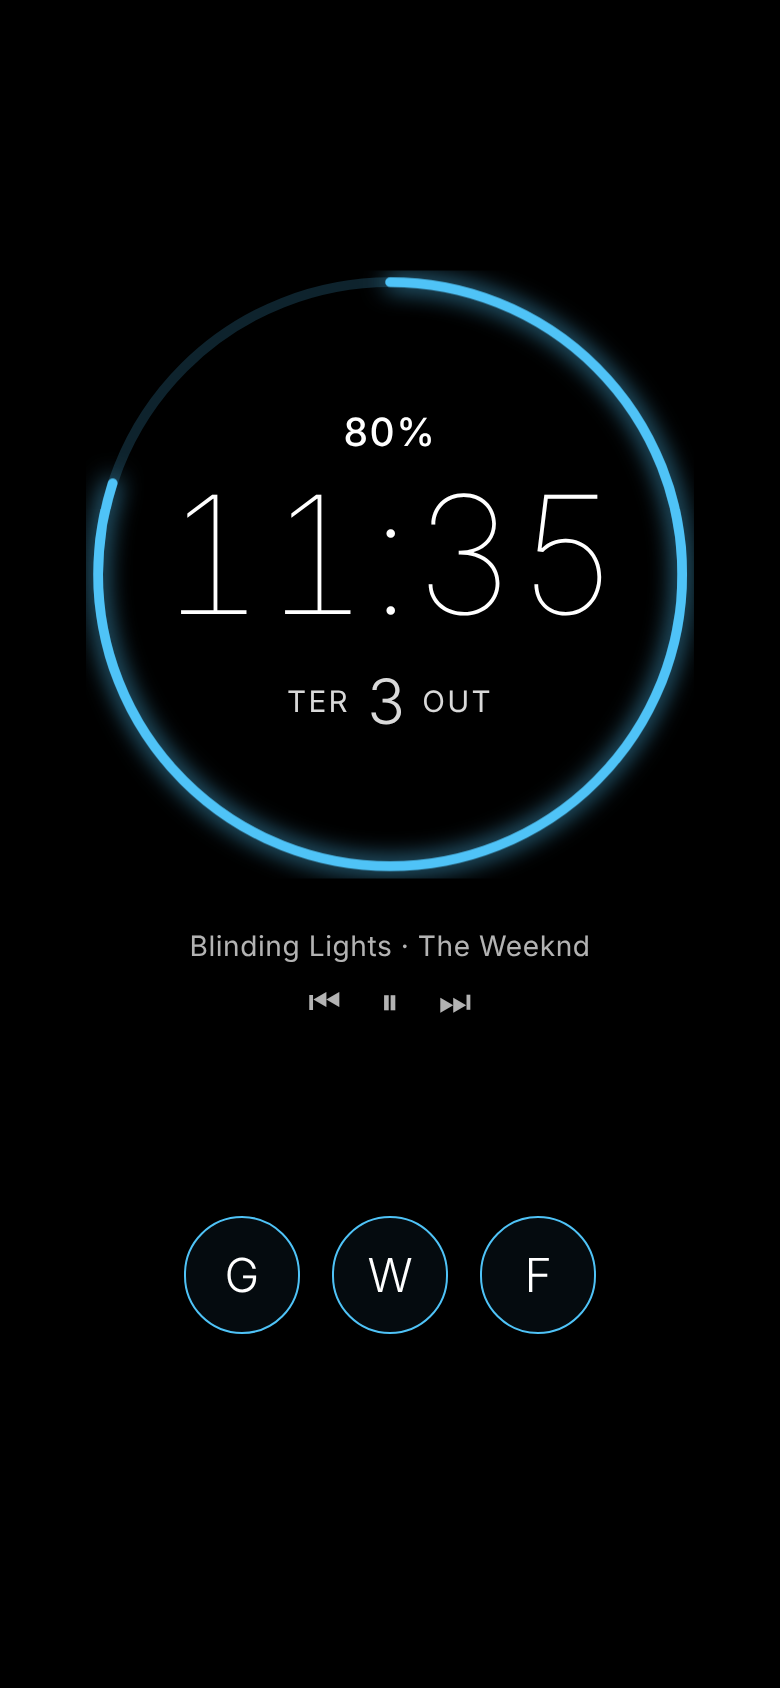
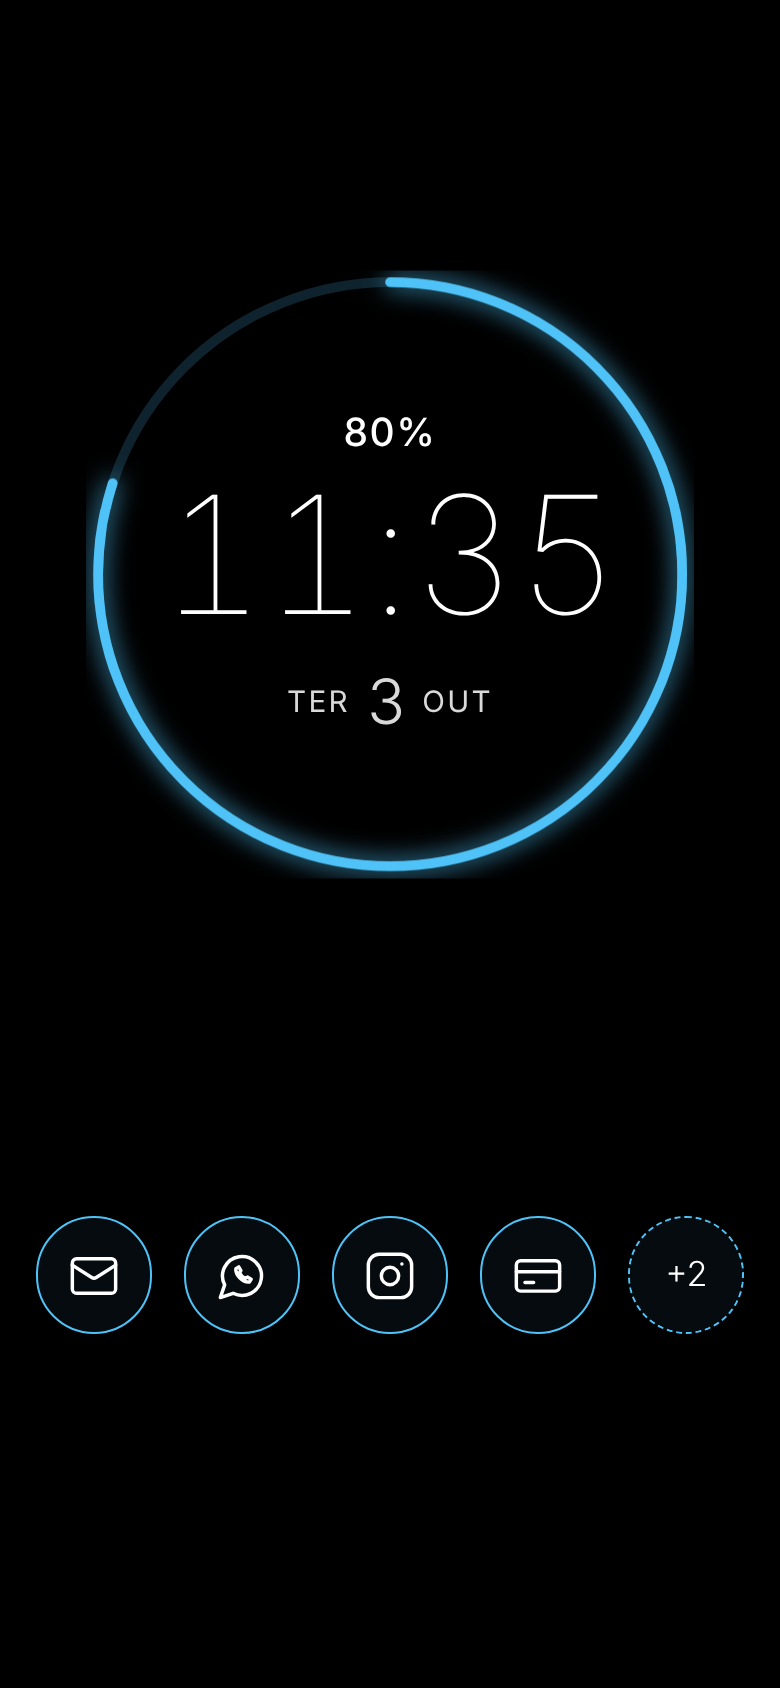
Moto Display: ícones de linha por app nas notificações
Ícones SVG embutidos (WhatsApp, Gmail, Instagram, Telegram, bancos, lojas, mapas
e outros) escolhidos pelo pacote do app; os demais usam um sino.

Claude-Session: https://claude.ai/code/session_017rdnfXSc1vabCLEXtf2YHv

diff --git a/app/src/main/java/dev/jesiel/launcher/data/HtmlWidgets.kt b/app/src/main/java/dev/jesiel/launcher/data/HtmlWidgets.kt
@@ -759,6 +759,7 @@ function onLauncherData(d){
 .icon{width:min(15vw,9vh);aspect-ratio:1;border-radius:50%;border:1.5px solid var(--ring);
   display:flex;align-items:center;justify-content:center;font-size:min(6vw,4vh);font-weight:300;color:#fff;
   background:rgba(79,195,247,.06);transition:transform .15s,background .15s}
+.icon svg{width:46%;height:46%;fill:none;stroke:#fff;stroke-width:1.6;stroke-linecap:round;stroke-linejoin:round}
 .icon.on{background:rgba(79,195,247,.28);transform:scale(1.08)}
 .icon.more{font-size:min(4.4vw,2.8vh);border-style:dashed}
 </style>
@@ -791,6 +792,50 @@ function onLauncherData(d){
 var notes = [], peekIndex = -1, peekTimer = null;
 function el(id){ return document.getElementById(id); }
 function short(s){ return String(s || '').replace(/[-\s].*/, '').slice(0, 3).toUpperCase(); }
+
+// Ícones de linha (24×24) por app; quem não está na lista ganha um sino.
+var ICONS = {
+  whatsapp: '<path d="M7.9 20A9 9 0 1 0 4 16.1L2 22Z"/><path d="M9.2 8.6c-.4 2.9 3.3 6.6 6.2 6.2l.8-1.3-1.7-1-.9.6a4.5 4.5 0 0 1-2.7-2.7l.6-.9-1-1.7z"/>',
+  messenger: '<path d="M7.9 20A9 9 0 1 0 4 16.1L2 22Z"/><path d="m7.5 13.5 3-3 2.5 2 3.5-3.5"/>',
+  sms: '<path d="M21 15a2 2 0 0 1-2 2H7l-4 4V5a2 2 0 0 1 2-2h14a2 2 0 0 1 2 2z"/><path d="M8 9h8M8 13h5"/>',
+  mail: '<rect x="2" y="4" width="20" height="16" rx="2"/><path d="m22 7-8.97 5.7a1.94 1.94 0 0 1-2.06 0L2 7"/>',
+  send: '<path d="m22 2-7 20-4-9-9-4Z"/><path d="M22 2 11 13"/>',
+  instagram: '<rect x="2" y="2" width="20" height="20" rx="5"/><circle cx="12" cy="12" r="4"/><path d="M17.5 6.5h.01"/>',
+  facebook: '<path d="M18 2h-3a5 5 0 0 0-5 5v3H7v4h3v8h4v-8h3l1-4h-4V7a1 1 0 0 1 1-1h3z"/>',
+  x: '<path d="M4 4l11.7 16H20L8.3 4z"/><path d="M4 20l6.8-6.8M13.2 10.8 20 4"/>',
+  linkedin: '<path d="M16 8a6 6 0 0 1 6 6v7h-4v-7a2 2 0 0 0-4 0v7h-4v-7a6 6 0 0 1 6-6z"/><rect x="2" y="9" width="4" height="12"/><circle cx="4" cy="4" r="2"/>',
+  youtube: '<path d="M2.5 17a24 24 0 0 1 0-10 2 2 0 0 1 1.4-1.4 49.6 49.6 0 0 1 16.2 0A2 2 0 0 1 21.5 7a24 24 0 0 1 0 10 2 2 0 0 1-1.4 1.4 49.6 49.6 0 0 1-16.2 0A2 2 0 0 1 2.5 17"/><path d="m10 15 5-3-5-3z"/>',
+  spotify: '<circle cx="12" cy="12" r="10"/><path d="M7 9.5c3.5-1 7-.7 10 1M7.6 12.6c2.8-.7 5.6-.4 8 .9M8.3 15.5c2.1-.5 4.2-.3 6 .7"/>',
+  music: '<path d="M9 18V5l12-2v13"/><circle cx="6" cy="18" r="3"/><circle cx="18" cy="16" r="3"/>',
+  phone: '<path d="M22 16.9v3a2 2 0 0 1-2.2 2 19.8 19.8 0 0 1-8.6-3.1 19.5 19.5 0 0 1-6-6A19.8 19.8 0 0 1 2.1 4.2 2 2 0 0 1 4.1 2h3a2 2 0 0 1 2 1.7c.1.9.4 1.9.7 2.8a2 2 0 0 1-.5 2.1L8.1 9.9a16 16 0 0 0 6 6l1.3-1.3a2 2 0 0 1 2.1-.4c.9.3 1.9.6 2.8.7a2 2 0 0 1 1.7 2z"/>',
+  calendar: '<rect x="3" y="4" width="18" height="18" rx="2"/><path d="M16 2v4M8 2v4M3 10h18"/>',
+  clock: '<circle cx="12" cy="13" r="8"/><path d="M12 9v4l2 2M5 3 2 6M22 6l-3-3"/>',
+  card: '<rect x="2" y="5" width="20" height="14" rx="2"/><path d="M2 10h20M6 15h4"/>',
+  bag: '<path d="M6 2 3 6v14a2 2 0 0 0 2 2h14a2 2 0 0 0 2-2V6l-3-4z"/><path d="M3 6h18M16 10a4 4 0 0 1-8 0"/>',
+  game: '<rect x="2" y="6" width="20" height="12" rx="2"/><path d="M6 12h4M8 10v4M15 13h.01M18 11h.01"/>',
+  pin: '<path d="M20 10c0 6-8 12-8 12s-8-6-8-12a8 8 0 0 1 16 0Z"/><circle cx="12" cy="10" r="3"/>',
+  image: '<rect x="3" y="3" width="18" height="18" rx="2"/><circle cx="9" cy="9" r="2"/><path d="m21 15-3.1-3.1a2 2 0 0 0-2.8 0L6 21"/>',
+  download: '<path d="M21 15v4a2 2 0 0 1-2 2H5a2 2 0 0 1-2-2v-4"/><path d="m7 10 5 5 5-5M12 15V3"/>',
+  gear: '<circle cx="12" cy="12" r="3"/><path d="M12 2v3M12 19v3M2 12h3M19 12h3M4.9 4.9 7 7M17 17l2.1 2.1M4.9 19.1 7 17M17 7l2.1-2.1"/>',
+  bell: '<path d="M6 8a6 6 0 0 1 12 0c0 7 3 9 3 9H3s3-2 3-9"/><path d="M10.3 21a1.94 1.94 0 0 0 3.4 0"/>'
+};
+// Ordem importa: o Messenger (facebook.orca) vem antes do Facebook.
+var RULES = [
+  [/whatsapp/, 'whatsapp'], [/orca|messenger/, 'messenger'], [/telegram|thunderdog|nekogram/, 'send'],
+  [/\.gm\b|gmail|mail|outlook/, 'mail'], [/messaging|\bmms|sms|mensag/, 'sms'],
+  [/instagram/, 'instagram'], [/facebook/, 'facebook'], [/twitter|com\.x\./, 'x'], [/linkedin/, 'linkedin'],
+  [/discord/, 'game'], [/youtube/, 'youtube'], [/spotify/, 'spotify'], [/musically|tiktok|deezer|music|soundcloud/, 'music'],
+  [/dialer|incallui|telecom|phone|contacts/, 'phone'], [/calendar|agenda/, 'calendar'], [/deskclock|clock|alarm/, 'clock'],
+  [/nubank|itau|bradesco|bancointer|\binter\b|caixa|bb\.android|picpay|mercadopago|santander|c6bank|banco/, 'card'],
+  [/shopee|amazon|mercadolibre|mercadolivre|aliexpress|magalu|shein/, 'bag'],
+  [/maps|waze|uber|taxis99|\b99\b|ifood/, 'pin'], [/photos|gallery|galeria|camera/, 'image'],
+  [/vending|play store/, 'download'], [/systemui|settings|securitycenter|^android\b/, 'gear']
+];
+function iconFor(n){
+  var key = ((n.pacote || '') + ' ' + (n.app || '')).toLowerCase(), name = 'bell';
+  for (var r = 0; r < RULES.length; r++) if (RULES[r][0].test(key)) { name = RULES[r][1]; break; }
+  return '<svg viewBox="0 0 24 24">' + ICONS[name] + '</svg>';
+}
 
 function peek(i){
   clearTimeout(peekTimer);
@@ -847,7 +892,8 @@ function onLauncherData(d){
   byApp.slice(0, 4).forEach(function(i){
     var n = notes[i], dot = document.createElement('div');
     dot.className = 'icon'; dot.dataset.i = i;
-    dot.textContent = (n.app || '?').trim().charAt(0).toUpperCase();
+    dot.innerHTML = iconFor(n);
+    dot.setAttribute('aria-label', n.app || '');
     dot.onclick = function(){ peek(i); };
     box.appendChild(dot);
   });

diff --git a/docs/moto-display-lock.html b/docs/moto-display-lock.html
@@ -38,6 +38,7 @@
 .icon{width:min(15vw,9vh);aspect-ratio:1;border-radius:50%;border:1.5px solid var(--ring);
   display:flex;align-items:center;justify-content:center;font-size:min(6vw,4vh);font-weight:300;color:#fff;
   background:rgba(79,195,247,.06);transition:transform .15s,background .15s}
+.icon svg{width:46%;height:46%;fill:none;stroke:#fff;stroke-width:1.6;stroke-linecap:round;stroke-linejoin:round}
 .icon.on{background:rgba(79,195,247,.28);transform:scale(1.08)}
 .icon.more{font-size:min(4.4vw,2.8vh);border-style:dashed}
 </style>
@@ -70,6 +71,50 @@
 var notes = [], peekIndex = -1, peekTimer = null;
 function el(id){ return document.getElementById(id); }
 function short(s){ return String(s || '').replace(/[-\s].*/, '').slice(0, 3).toUpperCase(); }
+
+// Ícones de linha (24×24) por app; quem não está na lista ganha um sino.
+var ICONS = {
+  whatsapp: '<path d="M7.9 20A9 9 0 1 0 4 16.1L2 22Z"/><path d="M9.2 8.6c-.4 2.9 3.3 6.6 6.2 6.2l.8-1.3-1.7-1-.9.6a4.5 4.5 0 0 1-2.7-2.7l.6-.9-1-1.7z"/>',
+  messenger: '<path d="M7.9 20A9 9 0 1 0 4 16.1L2 22Z"/><path d="m7.5 13.5 3-3 2.5 2 3.5-3.5"/>',
+  sms: '<path d="M21 15a2 2 0 0 1-2 2H7l-4 4V5a2 2 0 0 1 2-2h14a2 2 0 0 1 2 2z"/><path d="M8 9h8M8 13h5"/>',
+  mail: '<rect x="2" y="4" width="20" height="16" rx="2"/><path d="m22 7-8.97 5.7a1.94 1.94 0 0 1-2.06 0L2 7"/>',
+  send: '<path d="m22 2-7 20-4-9-9-4Z"/><path d="M22 2 11 13"/>',
+  instagram: '<rect x="2" y="2" width="20" height="20" rx="5"/><circle cx="12" cy="12" r="4"/><path d="M17.5 6.5h.01"/>',
+  facebook: '<path d="M18 2h-3a5 5 0 0 0-5 5v3H7v4h3v8h4v-8h3l1-4h-4V7a1 1 0 0 1 1-1h3z"/>',
+  x: '<path d="M4 4l11.7 16H20L8.3 4z"/><path d="M4 20l6.8-6.8M13.2 10.8 20 4"/>',
+  linkedin: '<path d="M16 8a6 6 0 0 1 6 6v7h-4v-7a2 2 0 0 0-4 0v7h-4v-7a6 6 0 0 1 6-6z"/><rect x="2" y="9" width="4" height="12"/><circle cx="4" cy="4" r="2"/>',
+  youtube: '<path d="M2.5 17a24 24 0 0 1 0-10 2 2 0 0 1 1.4-1.4 49.6 49.6 0 0 1 16.2 0A2 2 0 0 1 21.5 7a24 24 0 0 1 0 10 2 2 0 0 1-1.4 1.4 49.6 49.6 0 0 1-16.2 0A2 2 0 0 1 2.5 17"/><path d="m10 15 5-3-5-3z"/>',
+  spotify: '<circle cx="12" cy="12" r="10"/><path d="M7 9.5c3.5-1 7-.7 10 1M7.6 12.6c2.8-.7 5.6-.4 8 .9M8.3 15.5c2.1-.5 4.2-.3 6 .7"/>',
+  music: '<path d="M9 18V5l12-2v13"/><circle cx="6" cy="18" r="3"/><circle cx="18" cy="16" r="3"/>',
+  phone: '<path d="M22 16.9v3a2 2 0 0 1-2.2 2 19.8 19.8 0 0 1-8.6-3.1 19.5 19.5 0 0 1-6-6A19.8 19.8 0 0 1 2.1 4.2 2 2 0 0 1 4.1 2h3a2 2 0 0 1 2 1.7c.1.9.4 1.9.7 2.8a2 2 0 0 1-.5 2.1L8.1 9.9a16 16 0 0 0 6 6l1.3-1.3a2 2 0 0 1 2.1-.4c.9.3 1.9.6 2.8.7a2 2 0 0 1 1.7 2z"/>',
+  calendar: '<rect x="3" y="4" width="18" height="18" rx="2"/><path d="M16 2v4M8 2v4M3 10h18"/>',
+  clock: '<circle cx="12" cy="13" r="8"/><path d="M12 9v4l2 2M5 3 2 6M22 6l-3-3"/>',
+  card: '<rect x="2" y="5" width="20" height="14" rx="2"/><path d="M2 10h20M6 15h4"/>',
+  bag: '<path d="M6 2 3 6v14a2 2 0 0 0 2 2h14a2 2 0 0 0 2-2V6l-3-4z"/><path d="M3 6h18M16 10a4 4 0 0 1-8 0"/>',
+  game: '<rect x="2" y="6" width="20" height="12" rx="2"/><path d="M6 12h4M8 10v4M15 13h.01M18 11h.01"/>',
+  pin: '<path d="M20 10c0 6-8 12-8 12s-8-6-8-12a8 8 0 0 1 16 0Z"/><circle cx="12" cy="10" r="3"/>',
+  image: '<rect x="3" y="3" width="18" height="18" rx="2"/><circle cx="9" cy="9" r="2"/><path d="m21 15-3.1-3.1a2 2 0 0 0-2.8 0L6 21"/>',
+  download: '<path d="M21 15v4a2 2 0 0 1-2 2H5a2 2 0 0 1-2-2v-4"/><path d="m7 10 5 5 5-5M12 15V3"/>',
+  gear: '<circle cx="12" cy="12" r="3"/><path d="M12 2v3M12 19v3M2 12h3M19 12h3M4.9 4.9 7 7M17 17l2.1 2.1M4.9 19.1 7 17M17 7l2.1-2.1"/>',
+  bell: '<path d="M6 8a6 6 0 0 1 12 0c0 7 3 9 3 9H3s3-2 3-9"/><path d="M10.3 21a1.94 1.94 0 0 0 3.4 0"/>'
+};
+// Ordem importa: o Messenger (facebook.orca) vem antes do Facebook.
+var RULES = [
+  [/whatsapp/, 'whatsapp'], [/orca|messenger/, 'messenger'], [/telegram|thunderdog|nekogram/, 'send'],
+  [/\.gm\b|gmail|mail|outlook/, 'mail'], [/messaging|\bmms|sms|mensag/, 'sms'],
+  [/instagram/, 'instagram'], [/facebook/, 'facebook'], [/twitter|com\.x\./, 'x'], [/linkedin/, 'linkedin'],
+  [/discord/, 'game'], [/youtube/, 'youtube'], [/spotify/, 'spotify'], [/musically|tiktok|deezer|music|soundcloud/, 'music'],
+  [/dialer|incallui|telecom|phone|contacts/, 'phone'], [/calendar|agenda/, 'calendar'], [/deskclock|clock|alarm/, 'clock'],
+  [/nubank|itau|bradesco|bancointer|\binter\b|caixa|bb\.android|picpay|mercadopago|santander|c6bank|banco/, 'card'],
+  [/shopee|amazon|mercadolibre|mercadolivre|aliexpress|magalu|shein/, 'bag'],
+  [/maps|waze|uber|taxis99|\b99\b|ifood/, 'pin'], [/photos|gallery|galeria|camera/, 'image'],
+  [/vending|play store/, 'download'], [/systemui|settings|securitycenter|^android\b/, 'gear']
+];
+function iconFor(n){
+  var key = ((n.pacote || '') + ' ' + (n.app || '')).toLowerCase(), name = 'bell';
+  for (var r = 0; r < RULES.length; r++) if (RULES[r][0].test(key)) { name = RULES[r][1]; break; }
+  return '<svg viewBox="0 0 24 24">' + ICONS[name] + '</svg>';
+}
 
 function peek(i){
   clearTimeout(peekTimer);
@@ -126,7 +171,8 @@ function onLauncherData(d){
   byApp.slice(0, 4).forEach(function(i){
     var n = notes[i], dot = document.createElement('div');
     dot.className = 'icon'; dot.dataset.i = i;
-    dot.textContent = (n.app || '?').trim().charAt(0).toUpperCase();
+    dot.innerHTML = iconFor(n);
+    dot.setAttribute('aria-label', n.app || '');
     dot.onclick = function(){ peek(i); };
     box.appendChild(dot);
   });
